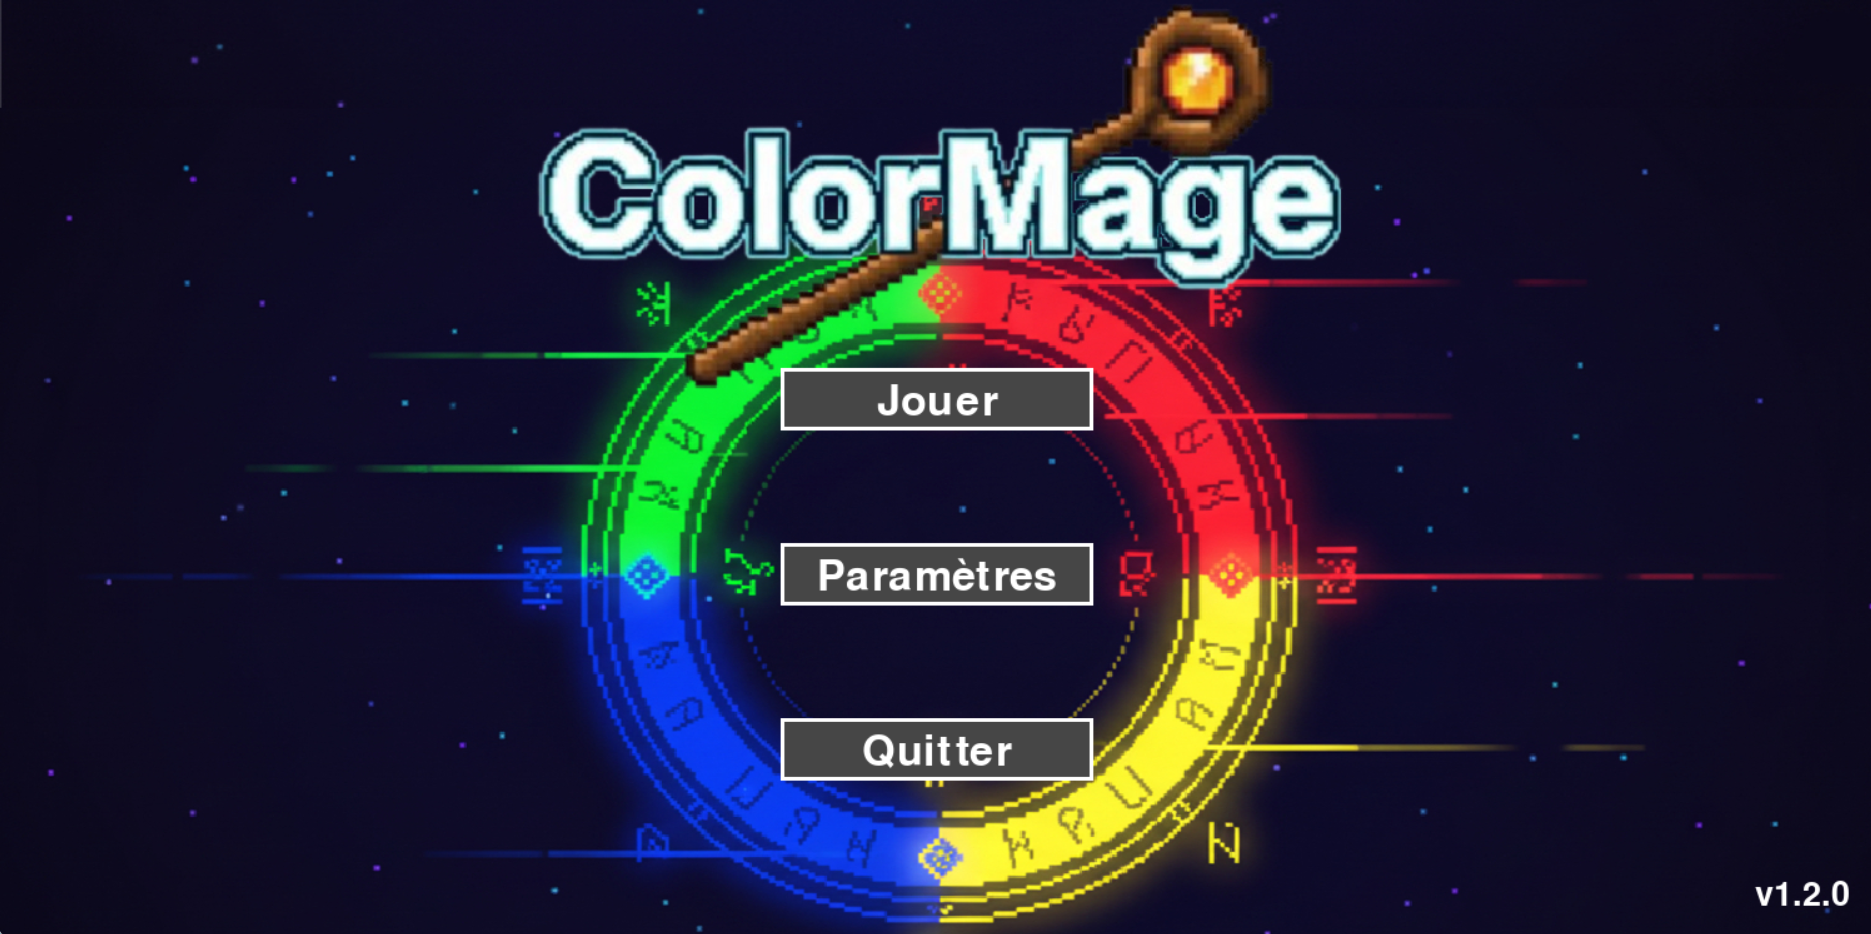
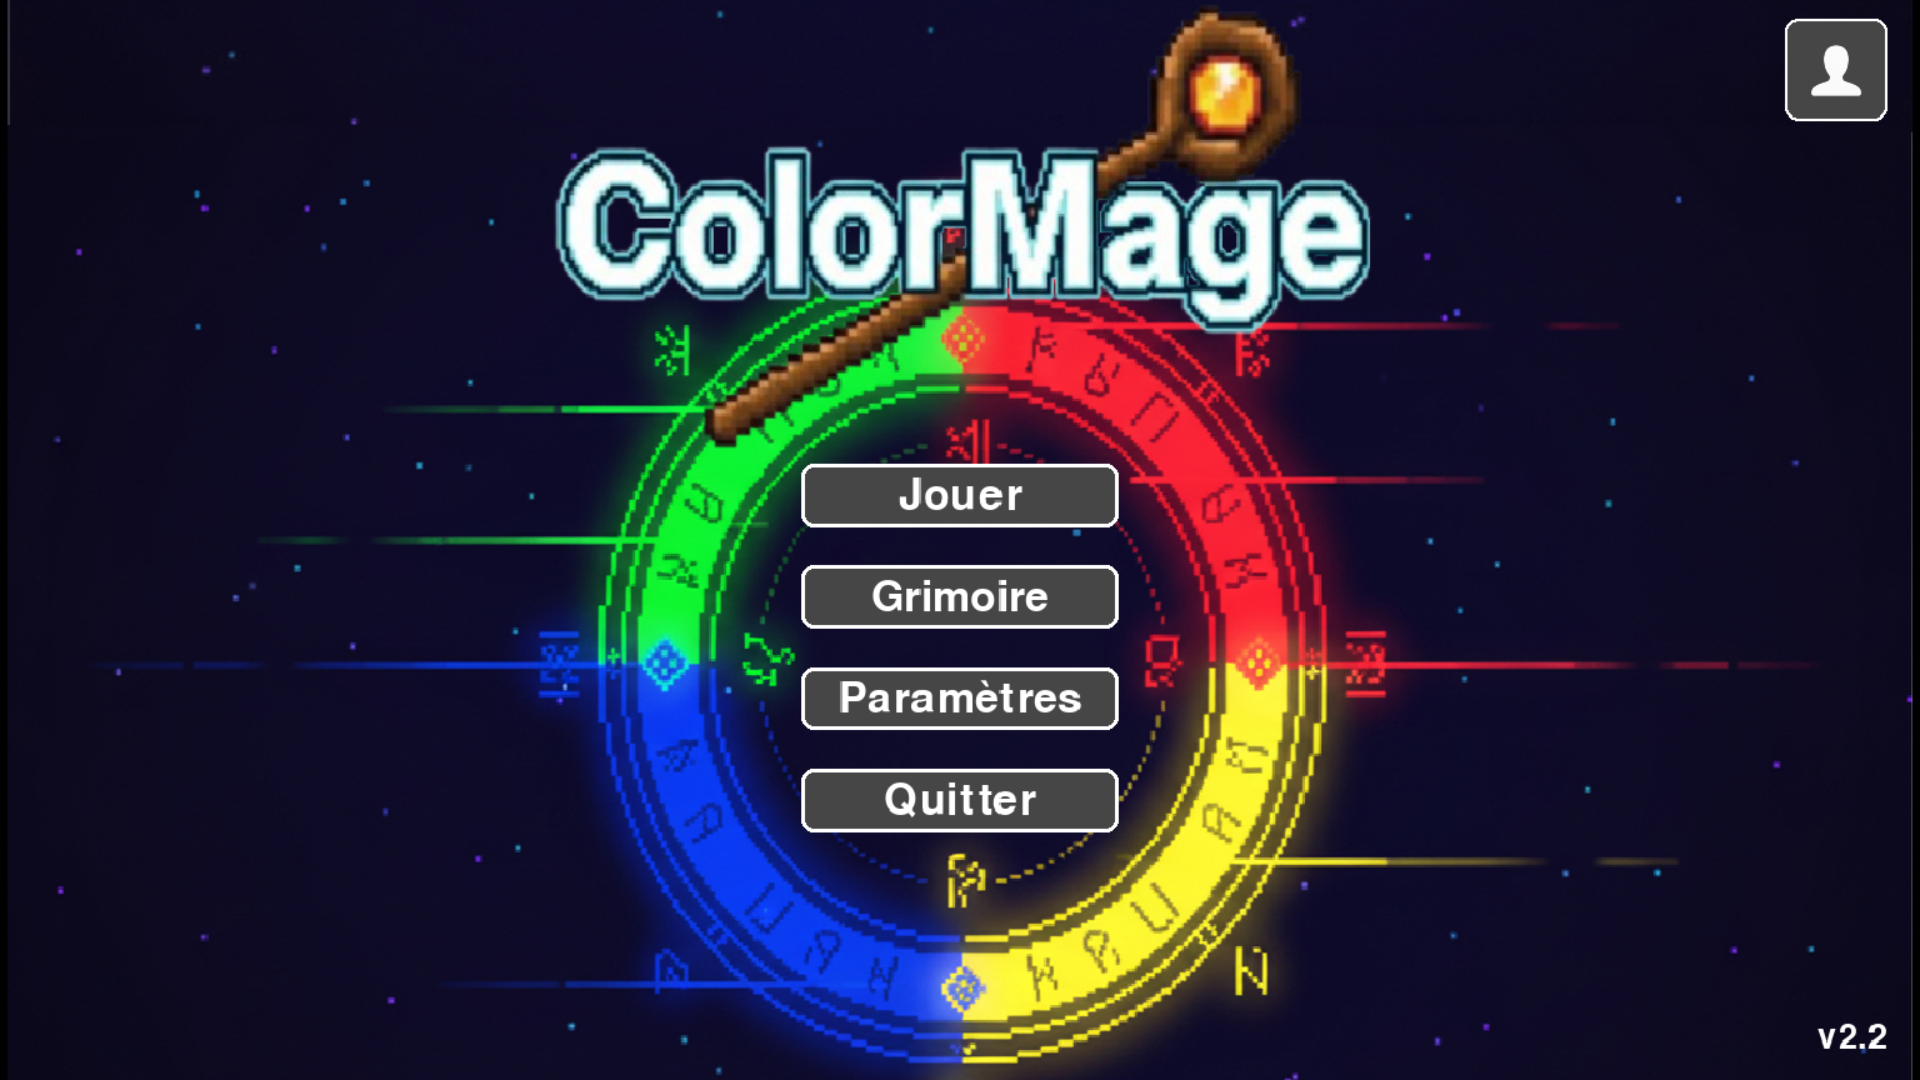
docs: ajout de la licence et des crédits + maj du readme

diff --git a/README.md b/README.md
@@ -1,53 +1,165 @@
+<div align="center">
+
 ![logo](img/logo.png)
 
-**ColorMage** est un jeu prototype développé en **Python** avec **Pygame**.
+**ColorMage** est un jeu de plateforme-puzzle développé en **Python** avec **Pygame**.
 
-Dans ce jeu, vous incarnez un Mage capable de traverser des portails de couleurs afin de pouvoir naviguer dans des niveaux remplis d'obstacles. La clé du succès réside dans l'alignement : vous ne pouvez interagir qu'avec les éléments qui correspondent à la couleur de votre personnage.
+Vous incarnez un Mage capable de changer de couleur pour naviguer dans des niveaux remplis de plateformes, de pièges et d'ennemis.  
+La clé du succès : vous ne pouvez interagir qu'avec les éléments qui correspondent à **votre couleur**.
 
-## 🎮 Gameplay
+![Version](https://img.shields.io/badge/version-v2.2-blue)
+![Python](https://img.shields.io/badge/python-3.8%2B-yellow)
+![Pygame](https://img.shields.io/badge/pygame-latest-green)
+![Licence](https://img.shields.io/badge/licence-MIT-lightgrey)
 
-Le joueur doit résoudre des parcours en changeant sa propre couleur pour pouvoir utiliser les plateformes et atteindre le portail final (jaune).
+</div>
 
-- Le Mage peut marcher sur les blocs de sa couleur et traverse ceux qui sont d'une couleur différente.
-- Traverser un portail change la couleur du Mage (par exemple : traverser un portail vert → le Mage devient vert).
-- L'objectif est d'atteindre le portail de sortie (portail jaune) en utilisant la bonne séquence de couleurs et de déplacements.
-
-## ⚙ Installation
-
-**Prérequis :** Python 3.8 ou supérieur
-
-- **Sur Linux :**
-    ```bash
-    git clone https://github.com/Emrecan45/ColorMage.git
-    cd ColorMage
-    python3 -m venv venv
-    source venv/bin/activate
-    python -m pip install --upgrade pip
-    python -m pip install pygame opencv-python numpy
-    ```
-
-- **Sur Windows (PowerShell) :**
-    ```powershell
-    git clone https://github.com/Emrecan45/ColorMage.git
-    cd ColorMage
-    python -m pip install --upgrade pip
-    python -m pip install pygame opencv-python numpy
-    ```
-
-Lancer le jeu :
-```bash
-python src/ColorMage.py
-```
+---
 
 ## 📷 Screenshots
 
-![screenshot_menu](img/screenshot_menu.png)
+| Menu principal | Gameplay |
+|:-:|:-:|
+| ![Menu](img/screenshot_menu.png) | ![Gameplay](img/screenshot_game.png) |
 
-![screenshot_game](img/screenshot_game.png)
+---
 
-## 🧠 Objectifs
+## 🎮 Gameplay
 
-**ColorMage** explore une mécanique de jeu innovante où couleur et stratégie sont essentielles. Le but est de créer un jeu amusant et stimulant, avec une difficulté progressive.
+Le joueur doit résoudre des parcours en changeant sa couleur pour utiliser les plateformes et atteindre le portail de sortie jaune.
 
+- **Blocs colorés** : le Mage marche sur les blocs de sa couleur et **traverse** les autres.
+- **Potions de couleur** : ramasser une potion change la couleur du Mage (ex : potion verte → Mage vert).
+- **Portail de sortie** : le portail jaune termine le niveau.
+- **Pièces** : collectables cachés dans chaque niveau.
+- **Pièges** : pics, ennemis mobiles, projectiles.
 
+### Ennemis
+
+| Ennemi | Description |
+|--------|-------------|
+| 🧙 Sorcier | Tire des projectiles dans sa portée |
+| 💀 Squelette | Patrouille sur une zone définie |
+| 🟢 Slime | Ennemi coloré, dangereux au contact |
+
+### Blocs spéciaux
+
+| Bloc | Effet |
+|------|-------|
+| Bloc mobile | Se déplace horizontalement ou verticalement |
+| Potion de couleur | Change la couleur du Mage |
+| Pic | Mort instantanée au contact |
+| Pièce | +1 au compteur de pièces du profil |
+
+---
+
+## 🗺️ Niveaux
+
+Le jeu contient actuellement **5 niveaux** jouables, répartis sur plusieurs planètes débloquées progressivement.  
+Chaque niveau possède un **meilleur temps** enregistré. Un **Grimoire** se débloque au fil de l'aventure - à vous de le découvrir.
+
+---
+
+## 👤 Profil
+
+- Pseudo personnalisable
+- Avatar sélectionnable (déblocables en battant des ennemis)
+- Statistiques : niveau max atteint, pièces collectées, temps de jeu total
+
+---
+
+## ⚙️ Installation
+
+**Prérequis :** Python 3.8 ou supérieur
+
+**Linux / macOS :**
+```bash
+git clone https://github.com/Emrecan45/ColorMage.git
+cd ColorMage
+python3 -m venv venv
+source venv/bin/activate
+pip install -r requirements.txt
+python3 src/ColorMage.py
+```
+
+**Windows (PowerShell) :**
+```powershell
+git clone https://github.com/Emrecan45/ColorMage.git
+cd ColorMage
+pip install -r requirements.txt
+python src/ColorMage.py
+```
+
+---
+
+## 🕹️ Contrôles
+
+| Action | Touche (défaut) |
+|--------|-----------------|
+| Aller à droite | `→` |
+| Aller à gauche | `←` |
+| Sauter | `↑` |
+| Pause | `P` ou `Échap` |
+
+> Les touches sont **reconfigurables** depuis le menu Paramètres.
+
+---
+
+## 🔧 Paramètres
+
+- Remappage des touches (droite, gauche, sauter)
+- Volume musique et effets sonores indépendants
+- Export / Import de sauvegarde
+- Réinitialisation de la progression
+
+---
+
+## 📁 Structure du projet
+
+```
+ColorMage/
+├── src/               # Code source Python
+│   ├── ColorMage.py   # Boucle principale du jeu
+│   ├── niveau.py      # Chargement et rendu des niveaux
+│   ├── joueur.py      # Logique du joueur
+│   ├── enemies.py     # Ennemis et objets
+│   ├── menu.py        # Menu principal
+│   ├── profil.py      # Page profil
+│   ├── parametres.py  # Paramètres (touches, volumes...)
+│   ├── pause.py       # Menu pause
+│   ├── popup.py       # Popups victoire / défaite / grimoire
+│   ├── chronometre.py # Chronomètre en jeu
+│   ├── alerte.py      # Notifications en overlay
+│   ├── config_manager.py # Gestion de la sauvegarde
+│   ├── config.py      # Constantes et configuration globale
+│   ├── intro.py       # Écran d'introduction
+│   └── menu_niveaux.py # Menu de sélection des niveaux
+├── niveaux/           # Fichiers JSON des 40 niveaux
+├── audio/             # Sons et musiques
+├── img/               # Images, avatars, sprites
+├── LICENSE            # Licence du projet (MIT)
+├── CREDITS.md         # Crédits et sources des assets
+├── .gitignore         # Fichiers à ignorer par Git
+├── README.md          # Ce fichier
+└── requirements.txt   # Dépendances
+```
+
+---
+
+## 🧠 Conception
+
+**ColorMage** explore une mécanique de jeu où **couleur et stratégie** sont indissociables.  
+Chaque niveau est un puzzle de déplacement : anticiper les changements de couleur nécessaires pour progresser sans tomber dans le vide ou se faire tuer.
+
+---
+
+## 🎨 Crédits
+
+Ce projet utilise des ressources graphiques originales et des contributions externes. La liste des auteurs et des sources associées est disponible dans le fichier [`CREDITS.md`](CREDITS.md).
+
+---
+
+## 📄 Licence
+
+Ce projet est distribué sous licence **MIT**. Voir le fichier [`LICENSE`](LICENSE) pour plus de détails.
 

diff --git a/CREDITS.md b/CREDITS.md
@@ -1,0 +1,50 @@
+# Crédits - ColorMage
+
+Merci aux créateurs dont les ressources ont rendu ce projet possible.
+
+---
+
+## 🎨 Assets graphiques
+
+### Sprites & personnages
+
+| Asset | Auteur | Source |
+|-------|--------|--------|
+| Mage joueur & sorciers squelettes | camkoalatixd | https://camkoalatixd.itch.io/2d-wizard-platformer |
+| Slimes & pièces | Brackeys | https://brackeysgames.itch.io/brackeys-platformer-bundle |
+| Potions | Ace Studi0s | https://ace-studi0s.itch.io/potion-rpg-assets-5-pack |
+| Effets de fumée / explosion | bdragon1727 | https://bdragon1727.itch.io/free-smoke-fx-pixel-2 |
+
+### Images générées par IA
+
+Les autres visuels non listés ci-dessus ont été générés par intelligence artificielle.
+
+---
+
+## 🔊 Audio
+
+Les effets sonores et musiques utilisés dans le jeu proviennent des plateformes suivantes :
+
+- **Pixabay** - https://pixabay.com
+- **Mixkit** - https://mixkit.co
+- **Uppbeat** - https://uppbeat.io
+- **itch.io** - https://itch.io
+
+---
+
+## 🛠️ Outils & bibliothèques
+
+| Outil | Usage |
+|-------|-------|
+| [Python](https://www.python.org/) | Langage principal |
+| [Pygame](https://www.pygame.org/) | Moteur de jeu |
+
+---
+
+## 👤 Développeur
+
+**Emrecan45** - Conception, programmation, level design, et intégration de tous les assets.
+
+---
+
+*Les assets tiers sont utilisés conformément à leurs licences respectives (libre de droits / usage personnel). Le code source de ColorMage est distribué sous licence MIT.*